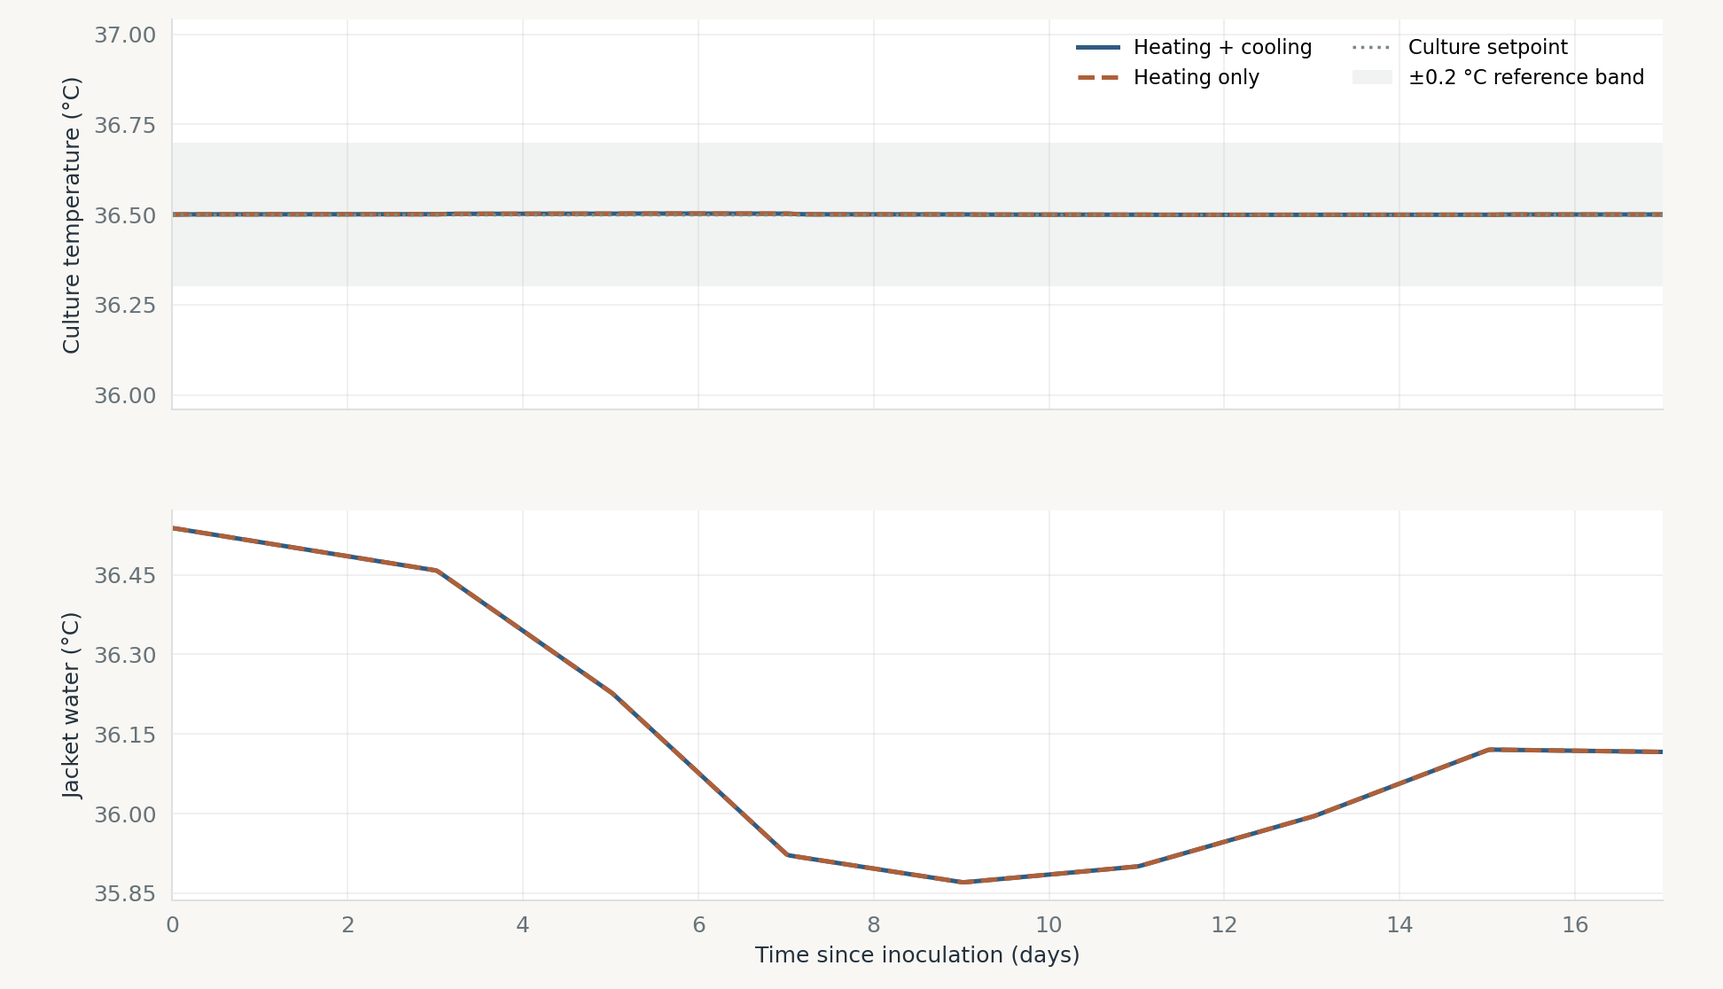
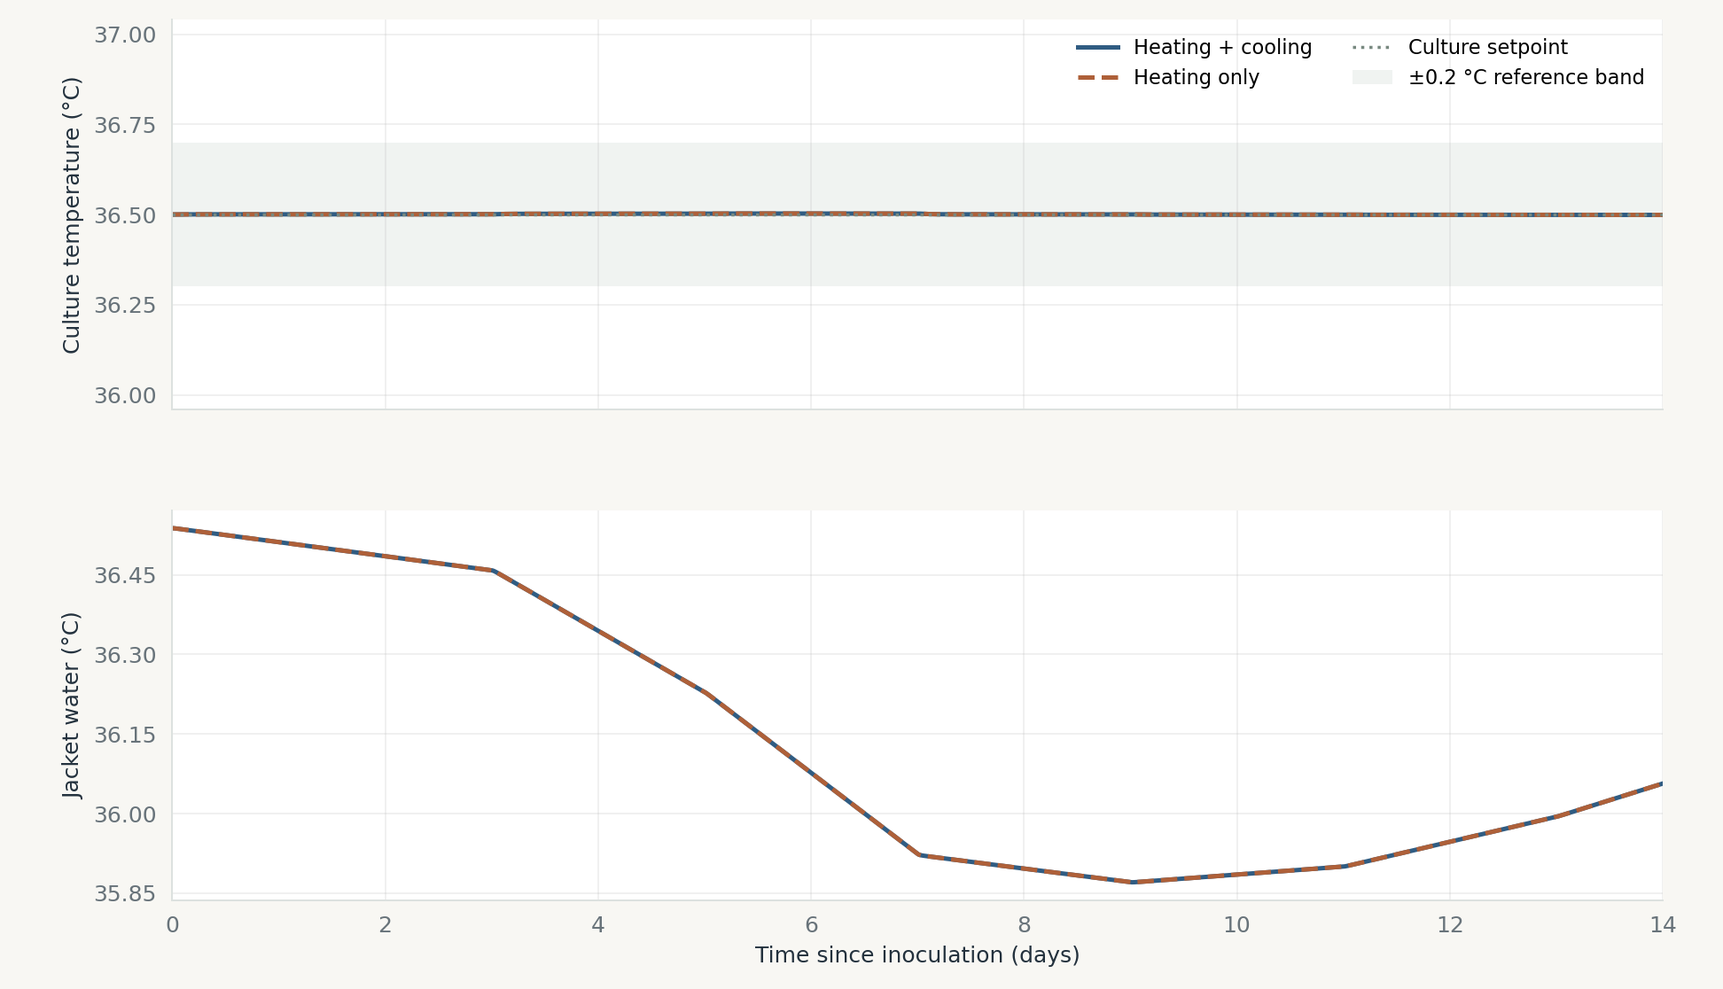
Run the fed-batch replays for 14 days and close the page with the scale-up argument
Use the first 14 days of the NISTCHO history for the 2,000 L and bench
fed-batch replays, matching the feeding scenarios; regenerate the profile
comparison and both fed-batch temperature figures. Move the feeding
section ahead of 'Why cooling becomes a scale-up requirement' so the
scale-up section closes the results before calibration.

diff --git a/src/content/projects/bioreactor-temperature-control.md b/src/content/projects/bioreactor-temperature-control.md
@@ -20,8 +20,9 @@ Under the selected assumptions, both bench vessels hold either culture profile w
     <li><a href="#warm-up-before-inoculation">Media warm-up</a></li>
     <li><a href="#two-temperature-measurements-two-control-loops">Temperature control</a></li>
     <li><a href="#metabolic-heat-fed-batch-and-perfusion">Heat generated by cells</a></li>
-    <li><a href="#bench-scale-the-same-cell-profiles-different-heat-paths">Bench scale and cooling</a></li>
+    <li><a href="#bench-scale-the-same-cell-profiles-different-heat-paths">Bench scale</a></li>
     <li><a href="#feeding-when-the-culture-volume-changes">Feeding and volume changes</a></li>
+    <li><a href="#why-cooling-becomes-a-scale-up-requirement">Why cooling becomes a scale-up requirement</a></li>
     <li><a href="#calibration-and-experimental-validation">Validation and next steps</a></li>
   </ol>
 </nav>
@@ -144,7 +145,7 @@ As viable cell density increases, metabolic heat can turn a heating requirement 
     <dl>
       <dt>Inoculum</dt><dd>0.3 million cells/mL (set)</dd>
       <dt>Peak</dt><dd>17.9 million cells/mL on day 9</dd>
-      <dt>End</dt><dd>11.4 million cells/mL on day 17</dd>
+      <dt>Day 14</dt><dd>13.0 million cells/mL at the end of the simulated window (the published run continues to 11.4 million cells/mL on day 17)</dd>
       <dt>Peak heat at 2,000 L</dt><dd>0.72 kW</dd>
     </dl>
   </section>
@@ -161,26 +162,26 @@ As viable cell density increases, metabolic heat can turn a heating requirement 
   </section>
 </div>
 
-Straight-line interpolation preserves each profile's timing, peaks, and decline. Both cases use a constant 36.5 °C setpoint, the reference tuning, and the equipment limits above. The cultures are different cell lines and processes; their VCD histories provide two thermal-load scenarios rather than a controlled biological comparison.
+Straight-line interpolation preserves each profile's timing, peaks, and decline. The fed-batch replay covers the first 14 days of the published history, the same window as the feeding scenarios later on the page; the perfusion replay runs its full 28 days. Both cases use a constant 36.5 °C setpoint, the reference tuning, and the equipment limits above. The cultures are different cell lines and processes; their VCD histories provide two thermal-load scenarios rather than a controlled biological comparison.
 
 Against the approximately 0.72 kW heater-off limit, the two peak loads fall on opposite sides of the line: at 20 pW per cell and 2,000 L, the modeled passive heat loss accommodates about 18 million cells/mL. The fed-batch peak sits just below that density; the perfusion culture passes it around day 6.
 
 In this comparison the volume stays fixed at 2,000 L so that the changing metabolic heat is the only disturbance; scheduled feed additions, with their volume and temperature effects, are taken up in the [Feeding](#feeding-when-the-culture-volume-changes) section. Sampling, bleeding, and heat exchange with perfusion harvest streams are not modeled. The examples replay the published density histories without reproducing the complete fed-batch or perfusion process.
 
 <figure class="xdr-figure">
-  <a href="/xdr2000/cho_profile_comparison_20pw.png" target="_blank" rel="noopener noreferrer" aria-label="Open the fed-batch and perfusion cell density and metabolic heat comparison at full size">
-    <img src="/xdr2000/cho_profile_comparison_20pw.png" alt="Top: published NISTCHO fed-batch viable cell density peaks near 18 million cells/mL over 17 days, while digitized Merck perfusion viable cell density peaks near 102 million cells/mL over 28 days. Bottom: the corresponding metabolic heat at 20 pW per cell and 2,000 L peaks near 0.7 kW for fed-batch and 4 kW for perfusion." width="1944" height="1116" loading="lazy" decoding="async" />
+  <a href="/xdr2000/cho_profile_comparison_20pw.png?v=839ad5d054ee" target="_blank" rel="noopener noreferrer" aria-label="Open the fed-batch and perfusion cell density and metabolic heat comparison at full size">
+    <img src="/xdr2000/cho_profile_comparison_20pw.png?v=839ad5d054ee" alt="Top: published NISTCHO fed-batch viable cell density peaks near 18 million cells/mL within the 14-day simulated window, while digitized Merck perfusion viable cell density peaks near 102 million cells/mL over 28 days. Bottom: the corresponding metabolic heat at 20 pW per cell and 2,000 L peaks near 0.7 kW for fed-batch and 4 kW for perfusion." width="1944" height="1116" loading="lazy" decoding="async" />
   </a>
-  <figcaption>Viable cell density (top) and the resulting metabolic heat at 20 pW per viable cell and 2,000 L (bottom). Fed-batch shows published NISTCHO means with one-standard-deviation error bars where available; perfusion shows approximate BRX#A readings from the published figure. Lines interpolate between source observations; each profile ends at its last observation.</figcaption>
+  <figcaption>Viable cell density (top) and the resulting metabolic heat at 20 pW per viable cell and 2,000 L (bottom). Fed-batch shows published NISTCHO means with one-standard-deviation error bars where available; perfusion shows approximate BRX#A readings from the published figure. Lines interpolate between source observations; the fed-batch profile is shown through the 14-day simulated window and the perfusion profile ends at its last observation.</figcaption>
 </figure>
 
 ## Fed-batch: the heater backs off as the cells grow
 
-At 20 pW per cell, both control modes hold 36.5 °C throughout the 17-day fed-batch profile; the deviation is not visible at the scale of the ±0.2 °C band. The response shows in the jacket. As metabolic heat rises toward its 716 W peak, the heater backs off and the jacket water settles about 0.6 °C below the culture, so heat flows from the culture through the wall to the jacket and on to the room. The peak is less than 1% below the approximately 722 W heater-off limit, and the heater contributes almost nothing at peak density. The two responses overlap because cooling is never called.
+At 20 pW per cell, both control modes hold 36.5 °C throughout the 14-day fed-batch window; the deviation is not visible at the scale of the ±0.2 °C band. The response shows in the jacket. As metabolic heat rises toward its 716 W peak, the heater backs off and the jacket water settles about 0.6 °C below the culture, so heat flows from the culture through the wall to the jacket and on to the room. The peak is less than 1% below the approximately 722 W heater-off limit, and the heater contributes almost nothing at peak density. The two responses overlap because cooling is never called.
 
 <figure class="xdr-figure">
-  <a href="/xdr2000/nistcho_fedbatch_temperature_20pw.png" target="_blank" rel="noopener noreferrer" aria-label="Open the constant-temperature fed-batch comparison at full size">
-    <img src="/xdr2000/nistcho_fedbatch_temperature_20pw.png" alt="Overlapping culture and jacket temperature responses for heating-only and heating/cooling during a 17-day NISTCHO fed-batch thermal scenario at a constant 36.5 degree setpoint, 2000 L, and 20 pW per viable cell." width="1944" height="1116" loading="lazy" decoding="async" />
+  <a href="/xdr2000/nistcho_fedbatch_temperature_20pw.png?v=0a56c59d4e59" target="_blank" rel="noopener noreferrer" aria-label="Open the constant-temperature fed-batch comparison at full size">
+    <img src="/xdr2000/nistcho_fedbatch_temperature_20pw.png?v=0a56c59d4e59" alt="Overlapping culture and jacket temperature responses for heating-only and heating/cooling during a 14-day NISTCHO fed-batch thermal scenario at a constant 36.5 degree setpoint, 2000 L, and 20 pW per viable cell." width="1944" height="1116" loading="lazy" decoding="async" />
   </a>
   <figcaption>Fed-batch at a constant 36.5 °C target, with 20 pW per viable cell and a fixed 2,000 L volume. The two control modes overlap because this case never calls for cooling. The shaded band marks ±0.2 °C around the setpoint; the jacket panel shows the heater backing off as metabolic heat rises and recovering as the culture declines.</figcaption>
 </figure>
@@ -200,7 +201,7 @@ The perfusion case holds a 36.5 °C setpoint for its 28-day observation window. 
 
 ## Bench scale: the same cell profiles, different heat paths
 
-The bench comparison keeps the same 17-day fed-batch and 28-day perfusion histories, the same assumed 20 pW per viable cell, and the same constant 36.5 °C target. Culture volume stays fixed at 2 L and 200 mL for both processes, matching the 2,000 L thermal replay, so that metabolic heat is the only changing load; the feed additions modeled in the [Feeding](#feeding-when-the-culture-volume-changes) section follow the scale-up comparison. Each culture starts at controlled equilibrium.
+The bench comparison keeps the same 14-day fed-batch and 28-day perfusion histories, the same assumed 20 pW per viable cell, and the same constant 36.5 °C target. Culture volume stays fixed at 2 L and 200 mL for both processes, matching the 2,000 L thermal replay, so that metabolic heat is the only changing load; the feed additions modeled in the [Feeding](#feeding-when-the-culture-volume-changes) section come next. Each culture starts at controlled equilibrium.
 
 ### How the bench controllers work
 
@@ -222,11 +223,11 @@ The bench models use a single controller responding to culture temperature. The 
 
 ### Fed-batch at bench scale
 
-Both bench cultures hold the target without active cooling throughout the 17-day profile. Their peak cell heat is about 0.716 W at 2 L and 0.0716 W at 200 mL. Maximum modeled culture errors are below 0.001 °C. The temperature of the blanket or block decreases as the cells generate more heat, while the controller continues supplying positive heating power. In this case the bench vessels have substantial passive heat-removal margin; the same profile at 2,000 L sits just below its limit.
+Both bench cultures hold the target without active cooling throughout the 14-day window. Their peak cell heat is about 0.716 W at 2 L and 0.0716 W at 200 mL. Maximum modeled culture errors are below 0.001 °C. The temperature of the blanket or block decreases as the cells generate more heat, while the controller continues supplying positive heating power. In this case the bench vessels have substantial passive heat-removal margin; the same profile at 2,000 L sits just below its limit.
 
 <figure class="xdr-figure">
-  <a href="/xdr2000/bench/fed_batch_temperature_20pw.png" target="_blank" rel="noopener noreferrer" aria-label="Open the fixed-volume bench fed-batch temperature comparison at full size">
-    <img src="/xdr2000/bench/fed_batch_temperature_20pw.png" alt="Two-column bench fed-batch comparison: culture temperatures stay at 36.5 degrees while the heating blanket at 2 L and holder block at 200 mL respond to cell-generated heat over 17 days." width="1944" height="1116" loading="lazy" decoding="async" />
+  <a href="/xdr2000/bench/fed_batch_temperature_20pw.png?v=62863da37ba4" target="_blank" rel="noopener noreferrer" aria-label="Open the fixed-volume bench fed-batch temperature comparison at full size">
+    <img src="/xdr2000/bench/fed_batch_temperature_20pw.png?v=62863da37ba4" alt="Two-column bench fed-batch comparison: culture temperatures stay at 36.5 degrees while the heating blanket at 2 L and holder block at 200 mL respond to cell-generated heat over 14 days." width="1944" height="1116" loading="lazy" decoding="async" />
   </a>
   <figcaption>The same result format as the 2,000 L case: culture temperature above, the heat-transfer element below, and a ±0.2 °C culture band. The lower panels show blanket and holder-block temperature, not jacket water. The 3 L vessel has heating only; the ambr controller has cooling available but applies none. Volumes remain fixed here and the original NISTCHO mean VCD profile is preserved; the same profile with scheduled feed boluses appears in the Feeding section.</figcaption>
 </figure>
@@ -242,16 +243,31 @@ The high-density perfusion profile also remains within the hold band at both ben
   <figcaption>Fixed-volume replay of the same Zhang BRX#A profile used at 2,000 L. Both bench cases complete all 28 days with positive heater power and zero active cooling. These are idealized thermal responses with prescribed biology; the small calculated errors are not claims about sensor accuracy or real equipment performance.</figcaption>
 </figure>
 
-The 3D playback below shows the bench heat paths and their temperature fields, with the XDR-2000 available in the same vessel menu for comparison. It opens on the 3 L media warm-up; use the scenario menu to follow a culture. The two fed-batch scenarios are the 14-day fed runs described under [Feeding](#feeding-when-the-culture-volume-changes) below, with 4 °C or 20 °C boluses, rather than the fixed-volume replays above; the perfusion replay keeps its constant volume. The viewer reports cell density at the selected time; the density histories are shown in the comparison above.
+The 3D playback below shows the bench heat paths and their temperature fields, with the XDR-2000 available in the same vessel menu for comparison. It opens on the 3 L media warm-up; use the scenario menu to follow a culture. The two fed-batch scenarios are the 14-day fed runs described in the next section, with 4 °C or 20 °C boluses, rather than the fixed-volume replays above; the perfusion replay keeps its constant volume. The viewer reports cell density at the selected time; the density histories are shown in the comparison above.
 
 <figure class="xdr-explorer">
   <iframe src="/bench-heating/index.html?v=8e6b3425b248#vessel=applikon3l&mode=controlled" title="Temperature simulation viewer: warm-up, fed-batch with feed boluses, and perfusion for the 3 L, ambr 250, and XDR-2000 vessels with 3D vessel playback" width="800" height="1700" loading="lazy" data-content-height></iframe>
   <figcaption><a href="/bench-heating/index.html?v=8e6b3425b248#vessel=applikon3l&mode=controlled" target="_blank" rel="noopener noreferrer">Open the simulation viewer in a full window ↗</a></figcaption>
 </figure>
 
+## Feeding: when the culture volume changes
+
+The comparisons above keep each culture at a fixed volume so that cell heat is the only changing load. A real fed-batch adds feed, and each addition changes three things at once: the amount of medium being heated, the vessel surface in contact with it, and the temperature of the culture, because the feed arrives colder than 36.5 °C. The model now handles that. Each bolus is applied as an instantaneous, well-mixed addition: the plant is rebuilt at the new volume, the culture temperature becomes the volume-weighted mix of culture and feed, the wall-band temperatures are remapped onto the new liquid level, and the controller carries on from its current state. The cell inventory stays fixed at the source density times the starting volume, so a cell-free bolus dilutes the density without adding cells.
+
+The scenario is the same at every scale: a 14-day NISTCHO fed-batch with cell-free boluses of 3 % of the starting volume every other day from day 2 to day 12, once with feed straight from the fridge at 4 °C and once at room temperature, 20 °C. The ambr 250 starts at 180 mL (5.4 mL boluses), the 3 L vessel at 2 L (60 mL), and the XDR-2000 at 1,500 L (45 L).
+
+<figure class="xdr-figure">
+  <a href="/fedbatch-feed/feed_scale_comparison.png?v=ba06524b20ad" target="_blank" rel="noopener noreferrer" aria-label="Open the three-scale feed bolus comparison at full size">
+    <img src="/fedbatch-feed/feed_scale_comparison.png?v=ba06524b20ad" alt="Three panels comparing the day-6 feed bolus in the ambr 250, the 3 L vessel, and the XDR-2000. Culture temperature drops about 0.95 degrees for 4 degree feed and 0.48 degrees for 20 degree feed in every vessel, then recovers within 10 to 15 minutes at bench scale and 20 to 35 minutes at 2,000 L." width="2376" height="827" loading="lazy" decoding="async" />
+  </a>
+  <figcaption>The day-6 bolus at all three scales. The initial drop is a volume ratio, so it is the same everywhere: a 3 % bolus 32.5 °C colder than the culture lowers it by 0.03/1.03 × 32.5 ≈ 0.95 °C, and by 0.48 °C for 20 °C feed. Recovery is where scale shows: the bench elements act on the wall directly and return the culture to the ±0.2 °C band in 10–15 minutes, while the 2,000 L jacket path takes 20–35 minutes and is limited by the 40 °C jacket ceiling rather than by TCU power. Later boluses dilute into a larger volume, so the drop shrinks from 0.95 to 0.83 °C by day 12.</figcaption>
+</figure>
+
+To see a bolus happen, use the viewer in the bench section above: it carries the XDR-2000 alongside the bench vessels, all at their fed-batch starting volumes. Select a vessel, choose the 4 °C or 20 °C fed-batch scenario, and scrub to day 2, 4, or 6 to watch the liquid level, volume, and cumulative feed step while the culture dips and the element or jacket water responds. Feed composition, evaporation, and sampling are not modeled, and each bolus is added at once; a pumped feed would spread the same drop over the pumping time.
+
 ## Why cooling becomes a scale-up requirement
 
-Small vessels have more surface area for each liter of culture. That gives heat a larger area to escape through relative to the amount of medium being kept warm. At the same cell density, a larger culture generates proportionally more heat, while the vessel's surface area grows more slowly. Cooling from the surrounding room therefore becomes less effective per liter as scale increases.
+Every result above points the same way: the bench vessels never needed cooling, the 2,000 L fed-batch came close, and 2,000 L perfusion could not be held without it. Small vessels have more surface area for each liter of culture. That gives heat a larger area to escape through relative to the amount of medium being kept warm. At the same cell density, a larger culture generates proportionally more heat, while the vessel's surface area grows more slowly. Cooling from the surrounding room therefore becomes less effective per liter as scale increases.
 
 The last column below answers a practical question: how much heat can the cells generate before active cooling is needed? It shows the heat each modeled vessel can release to a 20 °C room while the culture stays at 36.5 °C, with the heater and active cooling both off, after temperatures have stabilized. The values are watts per liter of culture (W/L). They account for the modeled wall, heating element or jacket, and headspace heat paths.
 
@@ -281,21 +297,6 @@ Heat removal also depends on the heat-transfer coefficient and the temperature d
 </details>
 
 A successful heating-only bench run therefore provides limited evidence about cooling needs after scale-up. In this comparison, large-scale perfusion needs installed cooling even though both bench vessels hold the same profile without it. The selected 2,000 L fed-batch case still holds with heating only, but its margin is small enough that a warmer room, more cells, or higher per-cell heat could change the requirement. Cooling capacity should be assessed against the expected culture heat load and required temperature shifts at the intended scale, using calibrated heat-transfer and biological inputs.
-
-## Feeding: when the culture volume changes
-
-The comparisons above keep each culture at a fixed volume so that cell heat is the only changing load. A real fed-batch adds feed, and each addition changes three things at once: the amount of medium being heated, the vessel surface in contact with it, and the temperature of the culture, because the feed arrives colder than 36.5 °C. The model now handles that. Each bolus is applied as an instantaneous, well-mixed addition: the plant is rebuilt at the new volume, the culture temperature becomes the volume-weighted mix of culture and feed, the wall-band temperatures are remapped onto the new liquid level, and the controller carries on from its current state. The cell inventory stays fixed at the source density times the starting volume, so a cell-free bolus dilutes the density without adding cells.
-
-The scenario is the same at every scale: a 14-day NISTCHO fed-batch with cell-free boluses of 3 % of the starting volume every other day from day 2 to day 12, once with feed straight from the fridge at 4 °C and once at room temperature, 20 °C. The ambr 250 starts at 180 mL (5.4 mL boluses), the 3 L vessel at 2 L (60 mL), and the XDR-2000 at 1,500 L (45 L).
-
-<figure class="xdr-figure">
-  <a href="/fedbatch-feed/feed_scale_comparison.png?v=ba06524b20ad" target="_blank" rel="noopener noreferrer" aria-label="Open the three-scale feed bolus comparison at full size">
-    <img src="/fedbatch-feed/feed_scale_comparison.png?v=ba06524b20ad" alt="Three panels comparing the day-6 feed bolus in the ambr 250, the 3 L vessel, and the XDR-2000. Culture temperature drops about 0.95 degrees for 4 degree feed and 0.48 degrees for 20 degree feed in every vessel, then recovers within 10 to 15 minutes at bench scale and 20 to 35 minutes at 2,000 L." width="2376" height="827" loading="lazy" decoding="async" />
-  </a>
-  <figcaption>The day-6 bolus at all three scales. The initial drop is a volume ratio, so it is the same everywhere: a 3 % bolus 32.5 °C colder than the culture lowers it by 0.03/1.03 × 32.5 ≈ 0.95 °C, and by 0.48 °C for 20 °C feed. Recovery is where scale shows: the bench elements act on the wall directly and return the culture to the ±0.2 °C band in 10–15 minutes, while the 2,000 L jacket path takes 20–35 minutes and is limited by the 40 °C jacket ceiling rather than by TCU power. Later boluses dilute into a larger volume, so the drop shrinks from 0.95 to 0.83 °C by day 12.</figcaption>
-</figure>
-
-To see a bolus happen, use the viewer in the bench section above: it carries the XDR-2000 alongside the bench vessels, all at their fed-batch starting volumes. Select a vessel, choose the 4 °C or 20 °C fed-batch scenario, and scrub to day 2, 4, or 6 to watch the liquid level, volume, and cumulative feed step while the culture dips and the element or jacket water responds. Feed composition, evaporation, and sampling are not modeled, and each bolus is added at once; a pumped feed would spread the same drop over the pumping time.
 
 ## Calibration and experimental validation
 

diff --git a/docs/control-explorer.md b/docs/control-explorer.md
@@ -42,8 +42,9 @@ through three static results-only exports:
   published standard deviations where available. The lower panel shows the
   corresponding metabolic heat at 20 pW per viable cell and a fixed 2,000 L
   culture volume.
-- `public/xdr2000/nistcho_fedbatch_temperature_20pw.png`: the 17-day fed-batch
-  controller comparison at a constant 36.5 C. The two responses overlap because
+- `public/xdr2000/nistcho_fedbatch_temperature_20pw.png`: the 14-day fed-batch
+  controller comparison at a constant 36.5 C (the first 14 days of the 17-day
+  published history). The two responses overlap because
   neither case calls for active cooling at the selected heat rate.
 - `public/xdr2000/zhang2024_perfusion_temperature_20pw.png`: the 28-day perfusion
   temperature comparison at the same constant target and per-cell heat rate.
